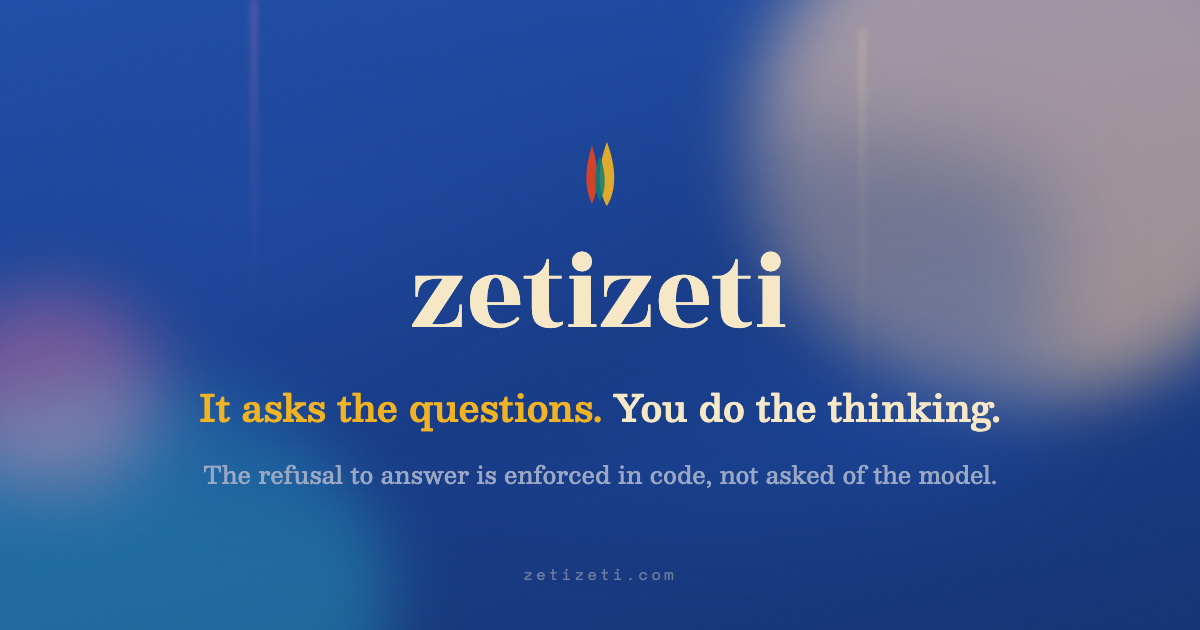
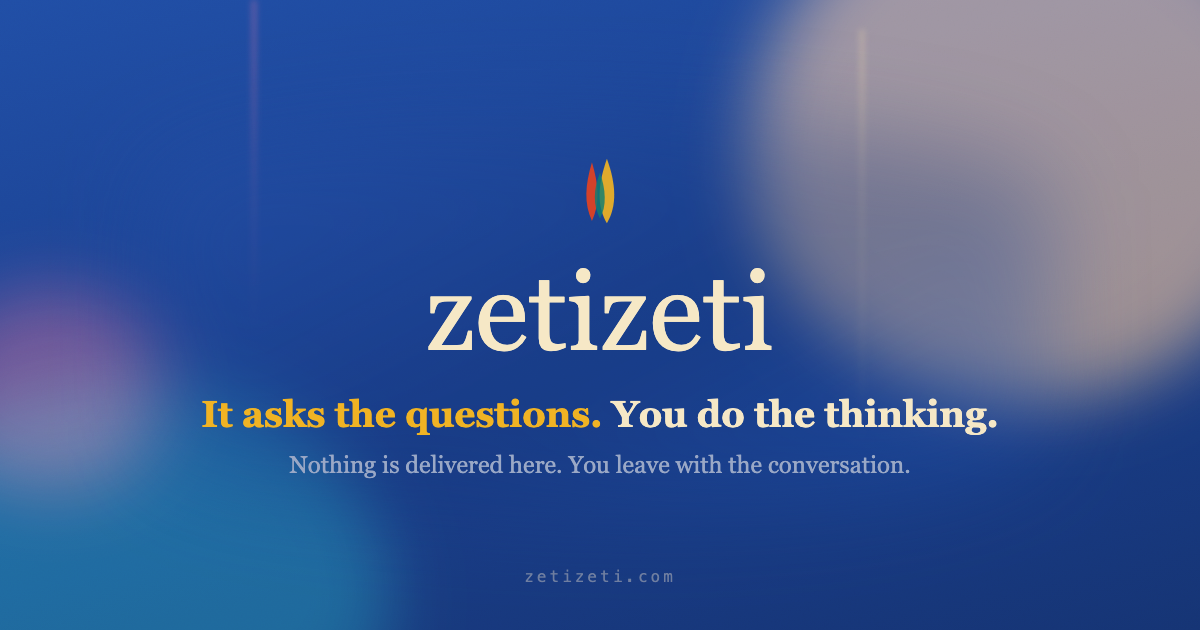
v1.1.0 — the pages say what the tool is for

diff --git a/public/index.html b/public/index.html
@@ -8,17 +8,17 @@
 <link rel="icon" href="/favicon.ico" sizes="any" />
 <link rel="apple-touch-icon" href="/apple-touch-icon.png" />
 <meta name="theme-color" content="#0a1428" />
-<meta name="description" content="It asks the questions; you do the thinking. Name the edge you are working on and the stone asks back, grounded in real, unresolved tensions. There is no answer it is holding back." />
+<meta name="description" content="It asks the questions; you do the thinking. Nothing is being delivered here — the questions carry nothing to you. You leave with the conversation, and nothing here keeps a copy of it." />
 <meta property="og:type" content="website" />
 <meta property="og:title" content="zetizeti — it asks the questions, you do the thinking" />
-<meta property="og:description" content="It asks the questions; you do the thinking. The refusal to answer is enforced in code, not asked of the model." />
+<meta property="og:description" content="It asks the questions; you do the thinking. Nothing is delivered here — the asking is the whole of it, and you leave with the conversation." />
 <meta property="og:url" content="https://zetizeti.com" />
 <meta property="og:image" content="https://zetizeti.com/og-image.png" />
 <meta property="og:image:width" content="1200" />
 <meta property="og:image:height" content="630" />
 <meta name="twitter:card" content="summary_large_image" />
 <meta name="twitter:title" content="zetizeti — it asks the questions, you do the thinking" />
-<meta name="twitter:description" content="It asks the questions; you do the thinking. The refusal to answer is enforced in code." />
+<meta name="twitter:description" content="It asks the questions; you do the thinking. Nothing is delivered here; you leave with the conversation." />
 <meta name="twitter:image" content="https://zetizeti.com/og-image.png" />
 <link rel="preconnect" href="https://fonts.googleapis.com" />
 <link rel="preconnect" href="https://fonts.gstatic.com" crossorigin />
@@ -693,8 +693,9 @@
           <h1>zetizeti</h1>
         </div>
         <span class="ethos">It asks the questions. You do the thinking.</span>
-        <span class="ethos-sub">One voice helps you <em>develop</em> an idea; the other <em>stress-tests</em> it — to see if it holds.</span>
-        <p class="lede">Name the edge you are trying to <b>develop</b> and the stone asks back, against tensions in the field that were never settled. Or bring an idea you want to <b>stress-test</b>: it questions <em>that</em> instead, and points to where the text quietly decided for you. <b>It never hands you the answer, and that is enforced rather than promised</b> — every question is held back and checked by code before it reaches you, which is why they do not arrive word by word.</p>
+        <span class="ethos-sub">Nothing is being delivered here. The questions carry nothing to you — the asking is the whole of it.</span>
+        <p class="lede">One voice helps you <b>develop</b> an idea: name the edge you are working on and the stone asks back, against tensions in the field that were never settled. The other <b>stress-tests</b> one — bring an idea and it questions <em>that</em> instead, pointing to where the text quietly decided for you. <b>It never hands you the answer, and that is enforced rather than promised</b> — every question is held back and checked by code before it reaches you, which is why they do not arrive word by word.</p>
+        <p class="lede">You leave with the conversation. Not a record of it, not what it taught you — the conversation. <b>Nothing here keeps a copy of it.</b></p>
         <p class="nameline">The name doubles <em>zeti</em>, from the Greek <em>zetetic</em> — "proceeding by inquiry" — with an echo of the Sanskrit <em>neti neti</em>, "not this, not this". <a id="aboutLink" class="aboutlink">What the two voices are →</a></p>
         <div class="signin">
           <a class="btn-google" href="/auth/google" id="googleBtn">
@@ -878,11 +879,12 @@
       <h2 class="vh">The two voices</h2>
       <p class="vsub">zetizeti is a whetstone. A whetstone does not cut for you; it is the stone you draw your own edge against. It asks; it does not answer. It has two voices — <b>one helps you develop an idea, the other stress-tests an idea to see if it holds</b>; both ask questions in your own words, and neither hands you a conclusion.</p>
       <p class="vsub"><b>The conversation is not a route to something else.</b> A tool that teaches you something has a thing to deliver — a method, a correction — and the talking is how it travels; once it has arrived, the talking can be thrown away. Nothing is being delivered here. <b>No answer is handed over because there is none to hand over.</b></p>
+      <p class="vsub">What you leave with is the conversation. It did not exist before and now it does; nobody else holds a copy; and when the tab closes it is gone unless you take it. <b>That is why nothing is kept here.</b> It belongs to whoever was in it, and the download is how it survives the tab closing.</p>
 
       <div class="about-mode">
         <div class="about-tag">first voice · to develop</div>
         <h3>It helps you develop your own idea</h3>
-        <p>You name an edge — what you are trying to do, and where it resists you. The stone asks back, each question grounded in a real, unresolved tension of your discipline. It does not resolve the tension for you; it keeps you in the question long enough to think. This is the older harm it was built against: the answer dropped in too soon, before you have done the thinking that would make it yours. An <em>information</em> gap a sentence can close; an <em>understanding</em> gap only your own movement can close. The stone refuses to close the second one for you.</p>
+        <p>You name an edge — what you are trying to do, and where it resists you. The stone asks back, each question grounded in a real tension in the field that was never settled. It does not resolve the tension for you; it keeps you in the question long enough to think. This is the older harm it was built against: the answer dropped in too soon, before you have done the thinking that would make it yours. An <em>information</em> gap a sentence can close; an <em>understanding</em> gap only your own movement can close. The stone refuses to close the second one for you.</p>
       </div>
 
       <div class="about-mode crit">
@@ -904,7 +906,7 @@
       <div class="about-mode">
         <div class="about-tag">what holds across both</div>
         <h3>Questions only. The thinking stays yours.</h3>
-        <p>The second voice is not a looser version of the first — it is the same discipline, held tighter. Both speak in questions and nothing else. Both reuse your exact words rather than paraphrasing them. Neither explains, advises, reassures, concludes, or scores. There are no grades here, no leaderboards, no percent-complete. Those measure a person, and what gets made here is a conversation. <b>It asks the questions; you do the thinking — whether the premature answer came from you, or from a machine.</b></p>
+        <p>The second voice is not a looser version of the first — it is the same discipline, held tighter. Both speak in questions and nothing else. Both reuse your exact words rather than paraphrasing them. Neither explains, advises, reassures, concludes, or scores. There are no grades here, no leaderboards, no percent-complete. Those measure a person. This makes a conversation, and you keep it. <b>It asks the questions; you do the thinking — whether a premature answer came from you, or from a machine.</b></p>
       </div>
 
       <div class="about-mode crit">
@@ -917,7 +919,7 @@
       <div class="about-mode">
         <div class="about-tag">where it comes from</div>
         <p class="about-credit">All of this is open and checkable — the code, the corpus, the locating rules, and the full verification records (citation ledgers, adversarial passes, sign-off sheets): <a href="https://github.com/zetizeti/zetizeti" target="_blank" rel="noopener">github.com/zetizeti/zetizeti</a> (AGPL-3.0). Nothing here asks to be trusted; it asks to be read.</p>
-        <p class="about-credit"><b>The framework underneath is <a href="https://splitdomaincognition.org" target="_blank" rel="noopener">split-domain cognition</a>.</b> Language work and judgement work are two unlike kinds of thinking, and a tool that runs both through one channel ends up doing the judging for you. So the model here only phrases the question. The locating, the guard and the sign-off are code, or a person. Every refusal on this page follows from that split, not from taste.</p>
+        <p class="about-credit"><b>The framework underneath is <a href="https://splitdomaincognition.org" target="_blank" rel="noopener">split-domain cognition</a>.</b> Language work and judgement work are two unlike kinds of thinking, and a tool that runs both through one channel ends up doing the judging for you. So the model here only phrases the question. The locating, the guard and the sign-off are code, or a person.</p>
         <p class="about-credit">zetizeti was built alongside <b><a href="https://koher.app" target="_blank" rel="noopener">Koher</a></b>, a ten-year practice of free open-source tools. Koher holds that a tool separating language from judgement has to show its architecture, and the curtain on this page is that habit: the retrieved tensions, the sources, and whether a person has read each one yet. The engine and the corpus are zetizeti's own.</p>
         <p class="about-credit">Made by <b><a href="https://prayasabhinav.net" target="_blank" rel="noopener">Prayas Abhinav</a></b>. <span class="build-ver" title="build version"></span></p>
       </div>

diff --git a/CHANGELOG.md b/CHANGELOG.md
@@ -26,6 +26,46 @@ Today's `0.9.x` works for tolerant students; reaching `1.0` means it works for t
 sharpening work — the loopiness fix, warmth, the `2.0` "unique" measurement maths — is the road *to*
 stable, not a departure from it.
 
+## [1.1.0] — 8 September 2026
+
+**The pages say what the tool is for. The copy plan's step two, four days late.**
+
+🔴 **The plan of 7 September had five steps and only the first ran**, so the surfaces still described the mechanism and never the claim. A reader could finish either page knowing exactly what would not be done to them and not knowing what any of it was for. Step two — decide the opening line — gated three, four and five, and it was still open.
+
+🔴 **The structural reason is worth keeping, because it will recur.** That plan is made almost entirely of prohibitions: no theory vocabulary with seven words named, no audience, no performed humility, no counts, no moral drawn, no first person. Against all of it, exactly one positive instruction with its wording left open. **A plan built from filters converges on whatever survives every filter**, and what survives is mechanism — it names no person, claims no outcome, uses no working word, and can be checked line by line. That is why both pages filled with how the locating works and what the guard refuses.
+
+⚠ **And most of the argument is correctly unusable as copy.** What a format installs, what schooling shrinks, what the 2013 text got wrong — all of it is an account of the reader's condition, and this copy never tells a reader what they are. That much of the plainness stays.
+
+### Changed
+
+- **The claim is on the landing page**, in the line under the ethos: nothing is being delivered here, the questions carry nothing to you, the asking is the whole of it. The two-voices summary it displaced moved into the lede, which already described both.
+- **What is made is named, on both pages and the card.** You leave with the conversation — not a record of it, not what it taught you. On the about page it carries the three checkable facts: it did not exist before, nobody else holds a copy, and it dies with the tab unless you take it.
+- **The two *nothing is saved* passages gained their second half.** They had read as privacy refusals, which is true and half the sentence.
+- **The refusals finish their own sentence.** *Those measure a person* used to stop there; it now says what does get made.
+- 🔴 **The 7 September Tier-1 sweep MISSED A SURFACE.** The about page still grounded each question in *a real, unresolved tension of your discipline* — a mechanism v0.29.0 deleted the same morning. Five surfaces were listed and swept; this was a sixth nobody had counted.
+- 🔴 **The README said the tool was *saved, resumable*, false since the ephemeral pivot.** A public doc asserting the opposite of an invariant, standing unread. It now describes the download-and-bring-it-back mechanism that is actually there.
+- **The social card is regenerated**, which the mtime test now enforces.
+
+### What the cold read caught, and it was not vocabulary
+
+🔴 **The strongest finding was a pronoun with no referent.** The page speaks of the tool in the third person throughout and has no *we* anywhere; the new copy said *ours to keep* and *it is not ours* four times, carrying the central custody claim on a plural that named nobody. **The unanchored plural is where the ghostwriter leaks in**, and here it was load-bearing. Every instance is gone.
+
+🔴 **Performed humility, shipped and cut before it went out.** *None of this is restraint — a tool with something to deliver would be right to deliver it…* is a claim about the tool's interior that no visitor can check, it is generosity to absent competitors, and it converted a paragraph's list of absences into integrity **inside that paragraph**, which is the prohibited pivot exactly. Cut; the plain version already opens the page.
+
+⚠ **The register fault survived a rewrite that only removed the decorative words.** Twenty-two of forty-four sentences ran on *is/are*, seven were the same pseudo-cleft rotated, eleven were *not X but Y*, and six of six paragraphs closed on a landing. **That is the twice-rejected punchline-per-slide fault at lower volume and higher frequency** — no longer one per slide, one per sentence. Re-verbed where the sentence was mine; the pre-existing instances are listed below and untouched.
+
+- **A refrain was byte-identical across two surfaces.** *Nothing is kept here, because there is nothing here that is ours to keep* appeared three times, twice character-for-character. A human restating a line they care about says it differently, because they are saying it for a different reason in a different place.
+- **A binding rule was breached in five words, and it predates this release.** *whether **the** premature answer came from you* — the definite article presupposes the reader arrived with one and calls it premature. Naming a reader's condition back to them is what this tool refuses everywhere in its architecture. Now indefinite.
+- **The SDC paragraph's closing sentence is deleted rather than reworded.** It was a two-word landing and a second claim to be the root of the same refusals; the two sentences before it say the thing plainly and can be checked.
+
+⚠ **Four faults were found and deliberately NOT fixed, because each is a judgement about the site's own long-standing voice rather than a fault in what was written today:** the 39-word split-ratio sentence in the critique block (an abstract-noun subject, a four-deep relative chain, a personified practice, a colon-binary, and five working terms including *self-frame*, none introduced); *the stone* and *the field* arriving unintroduced in the first paragraph a stranger reads; *split-domain cognition* named as a label the plain explanation beside it does not need. **Prayas's to settle.**
+
+⚠ **No detector score was available** — the humanizer servers were not connected — so this is one hostile read plus counts, by Claude reading Claude. A non-Claude or human read is still owed on a first-contact surface.
+
+### Rendered and looked at
+
+390, 760, 1440 and 1920, plus the about page in full. 🔴 **The first draft pushed the landing past one screen on a phone**, putting the sign-in button below the fold and breaking the never-scroll rule; the artifact paragraph gave up its elaboration to the about page, where it belongs, and it fits again. ⚠ Headless Chrome at 390 clips horizontally with or without these changes — an artefact of rendering without mobile emulation, identical in the pre-edit copy, and not introduced here.
+
 ## [1.0.1] — 7 September 2026
 
 **Notes on a dialogue, not measurements of one.**

diff --git a/README.md b/README.md
@@ -152,9 +152,10 @@ These are load-bearing decisions, documented in [`CONTRIBUTING.md`](CONTRIBUTING
 - **No scores, no grades, no verdicts** — a 245-dimension "quality score" is a deposited conclusion
   wearing the clothes of feedback. The tool locates; the human judges.
 - **No aggregation** — every reading and every critique is per-instance. Nothing is averaged, ranked,
-  benchmarked, or rolled into a profile. Saved, resumable — never compared.
-- **No gamification** — no leaderboards, badges, streaks, or percent-complete. Progress is the learner's
-  edge getting sharper, private to them.
+  benchmarked, or rolled into a profile. Nothing is stored server-side either: the learner downloads the
+  transcript and brings it back to resume, so the conversation is theirs and never ours to compare.
+- **No gamification** — no leaderboards, badges, streaks, or percent-complete. Those measure a person. This
+  makes a conversation, and the learner keeps it.
 - **No user modelling** — the tool keeps no model of how you think.
 - **No embeddings in retrieval** — Clean Language reuses your *literal* words, so retrieval is exact-word
   FTS5. Semantic search would quietly substitute the tool's reading for yours.
